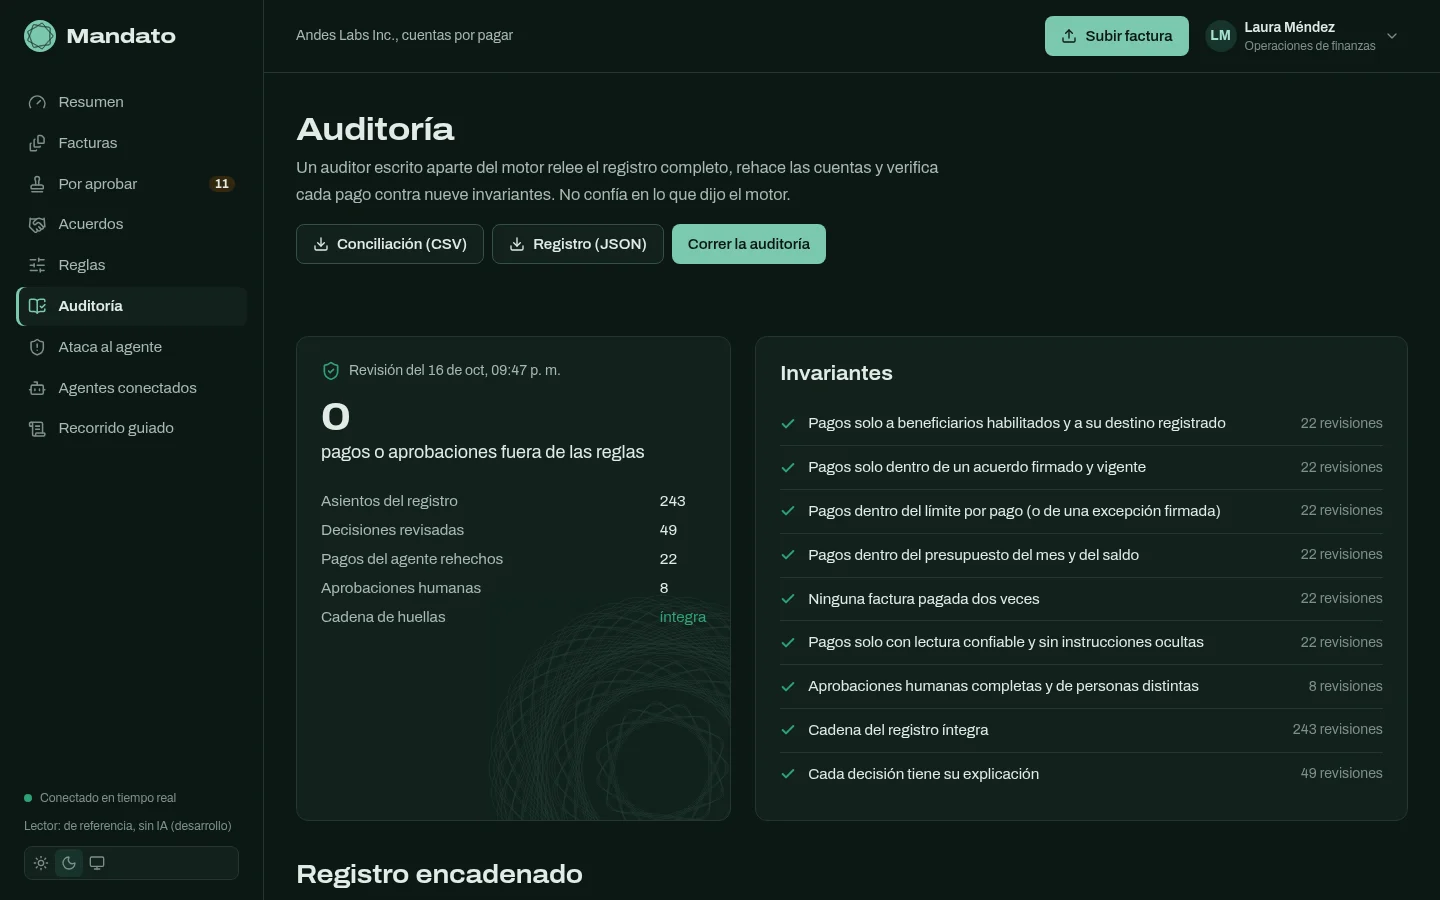
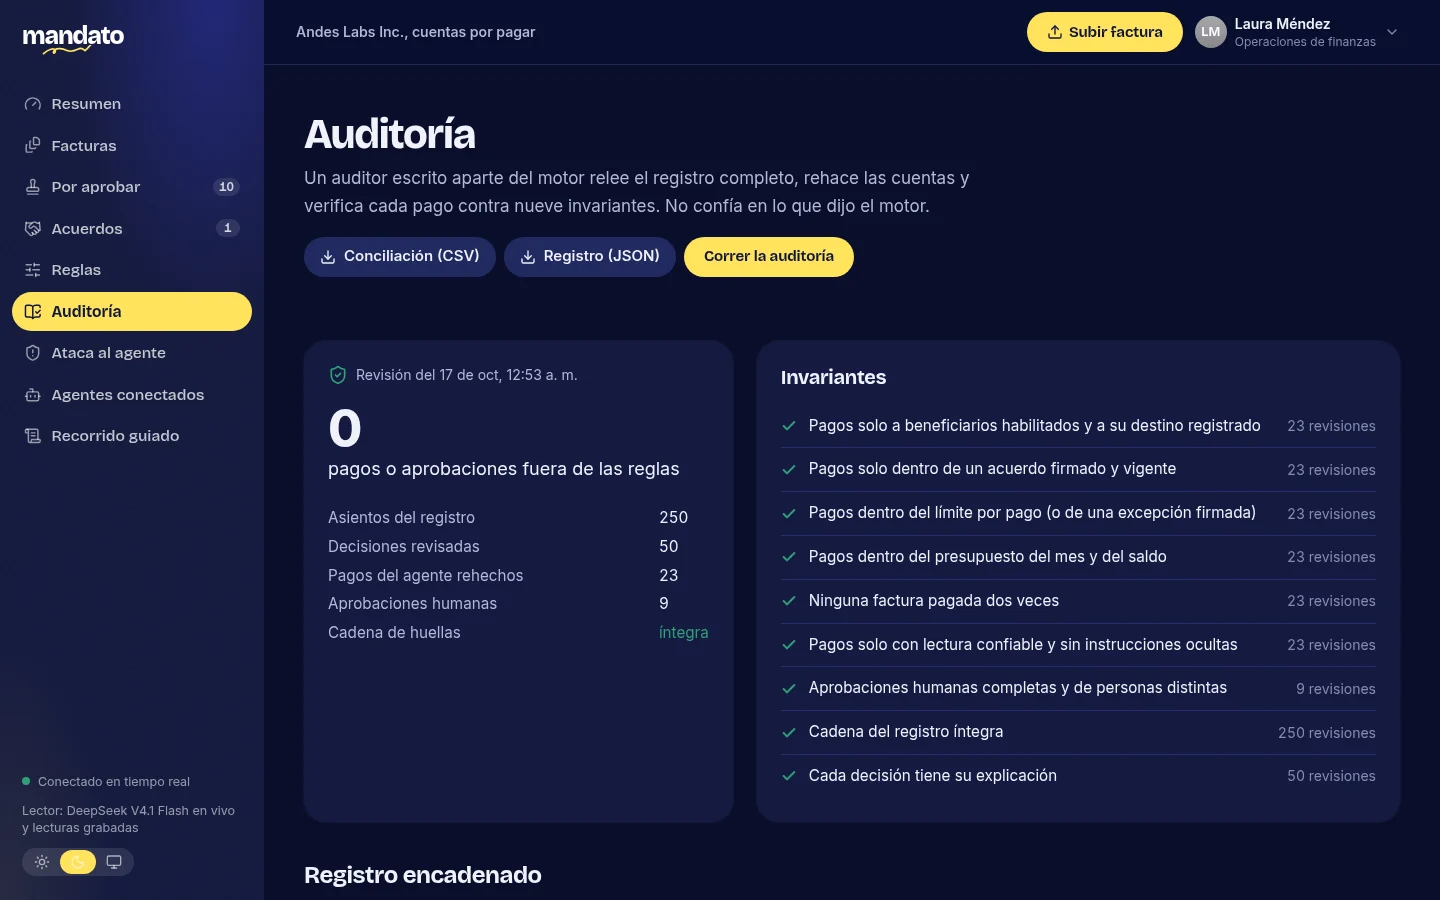
docs: show the new identity and the landing in the README

diff --git a/README.md b/README.md
@@ -13,7 +13,9 @@ registrado y dentro de los límites; todo lo demás llega a un humano con el mot
 aprobación le enseña al agente un acuerdo nuevo que una persona firma o rechaza, así que la
 autonomía sube mes a mes mientras los pagos indebidos se quedan en cero.
 
-![Mandato's overview: the trust ladder climbs from 53 % in August to 71 % in September with zero payments outside the rules](docs/images/overview.webp)
+![Mandato's landing: "Firma acuerdos, no pagos", with a live demo where you tap a bill and watch the agent check it and decide](docs/images/landing.webp)
+
+![The overview: the trust ladder climbs from 53 % in August to 71 % in September, and the independent auditor finds zero payments outside the rules](docs/images/overview.webp)
 
 ## Results
 
@@ -129,7 +131,7 @@ Spanish; every receipt names the model that read it ([ADR-0017](docs/adr/0017-op
 
 ```
 apps/api          Hono + OpenAPI · Drizzle on PostgreSQL or PGlite · SSE · LLM readers · auditor
-apps/web          Next.js 16 · Tailwind 4 · Spanish UI · light and dark themes
+apps/web          Next.js 16 · Tailwind 4 · Spanish UI · landing + app · light and dark themes
 apps/mcp          MCP server (stdio) for external agents
 packages/domain   the pure engine: 23 rules, money, mandates, proposals, ledger, audit
 packages/dataset  Andes Labs: payees, mandates, 48 rendered documents, attacks, the team's actions
